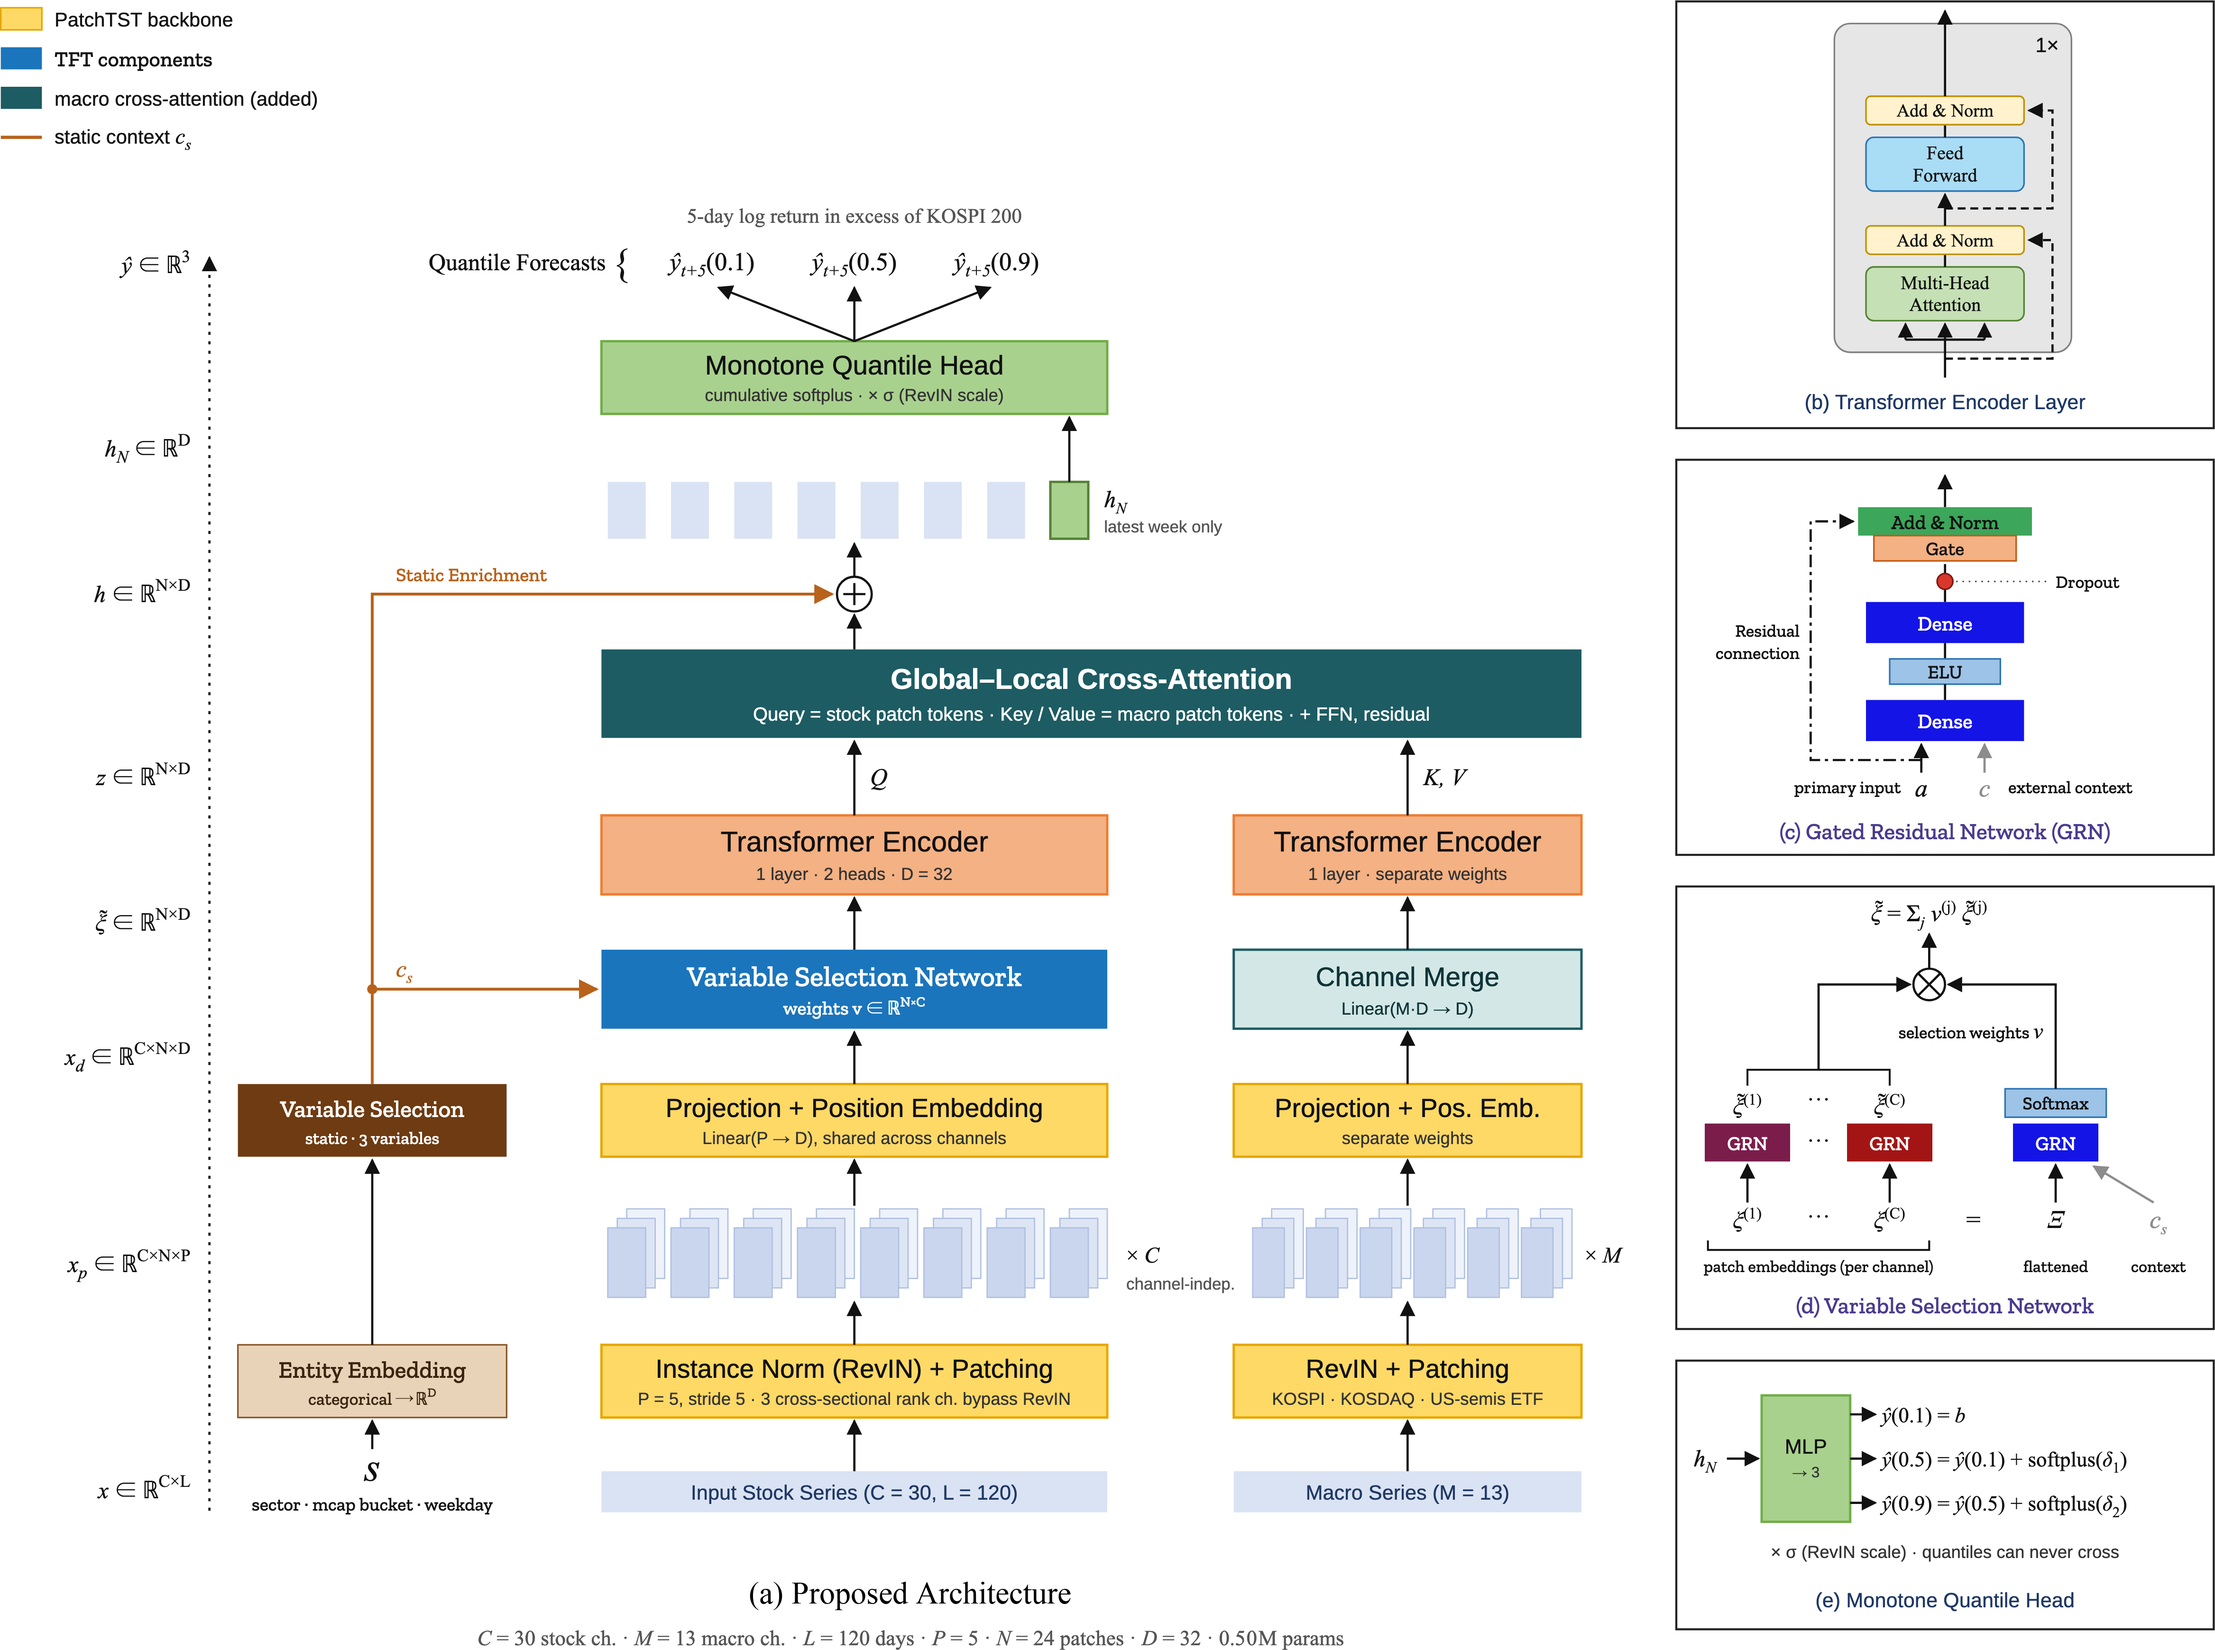
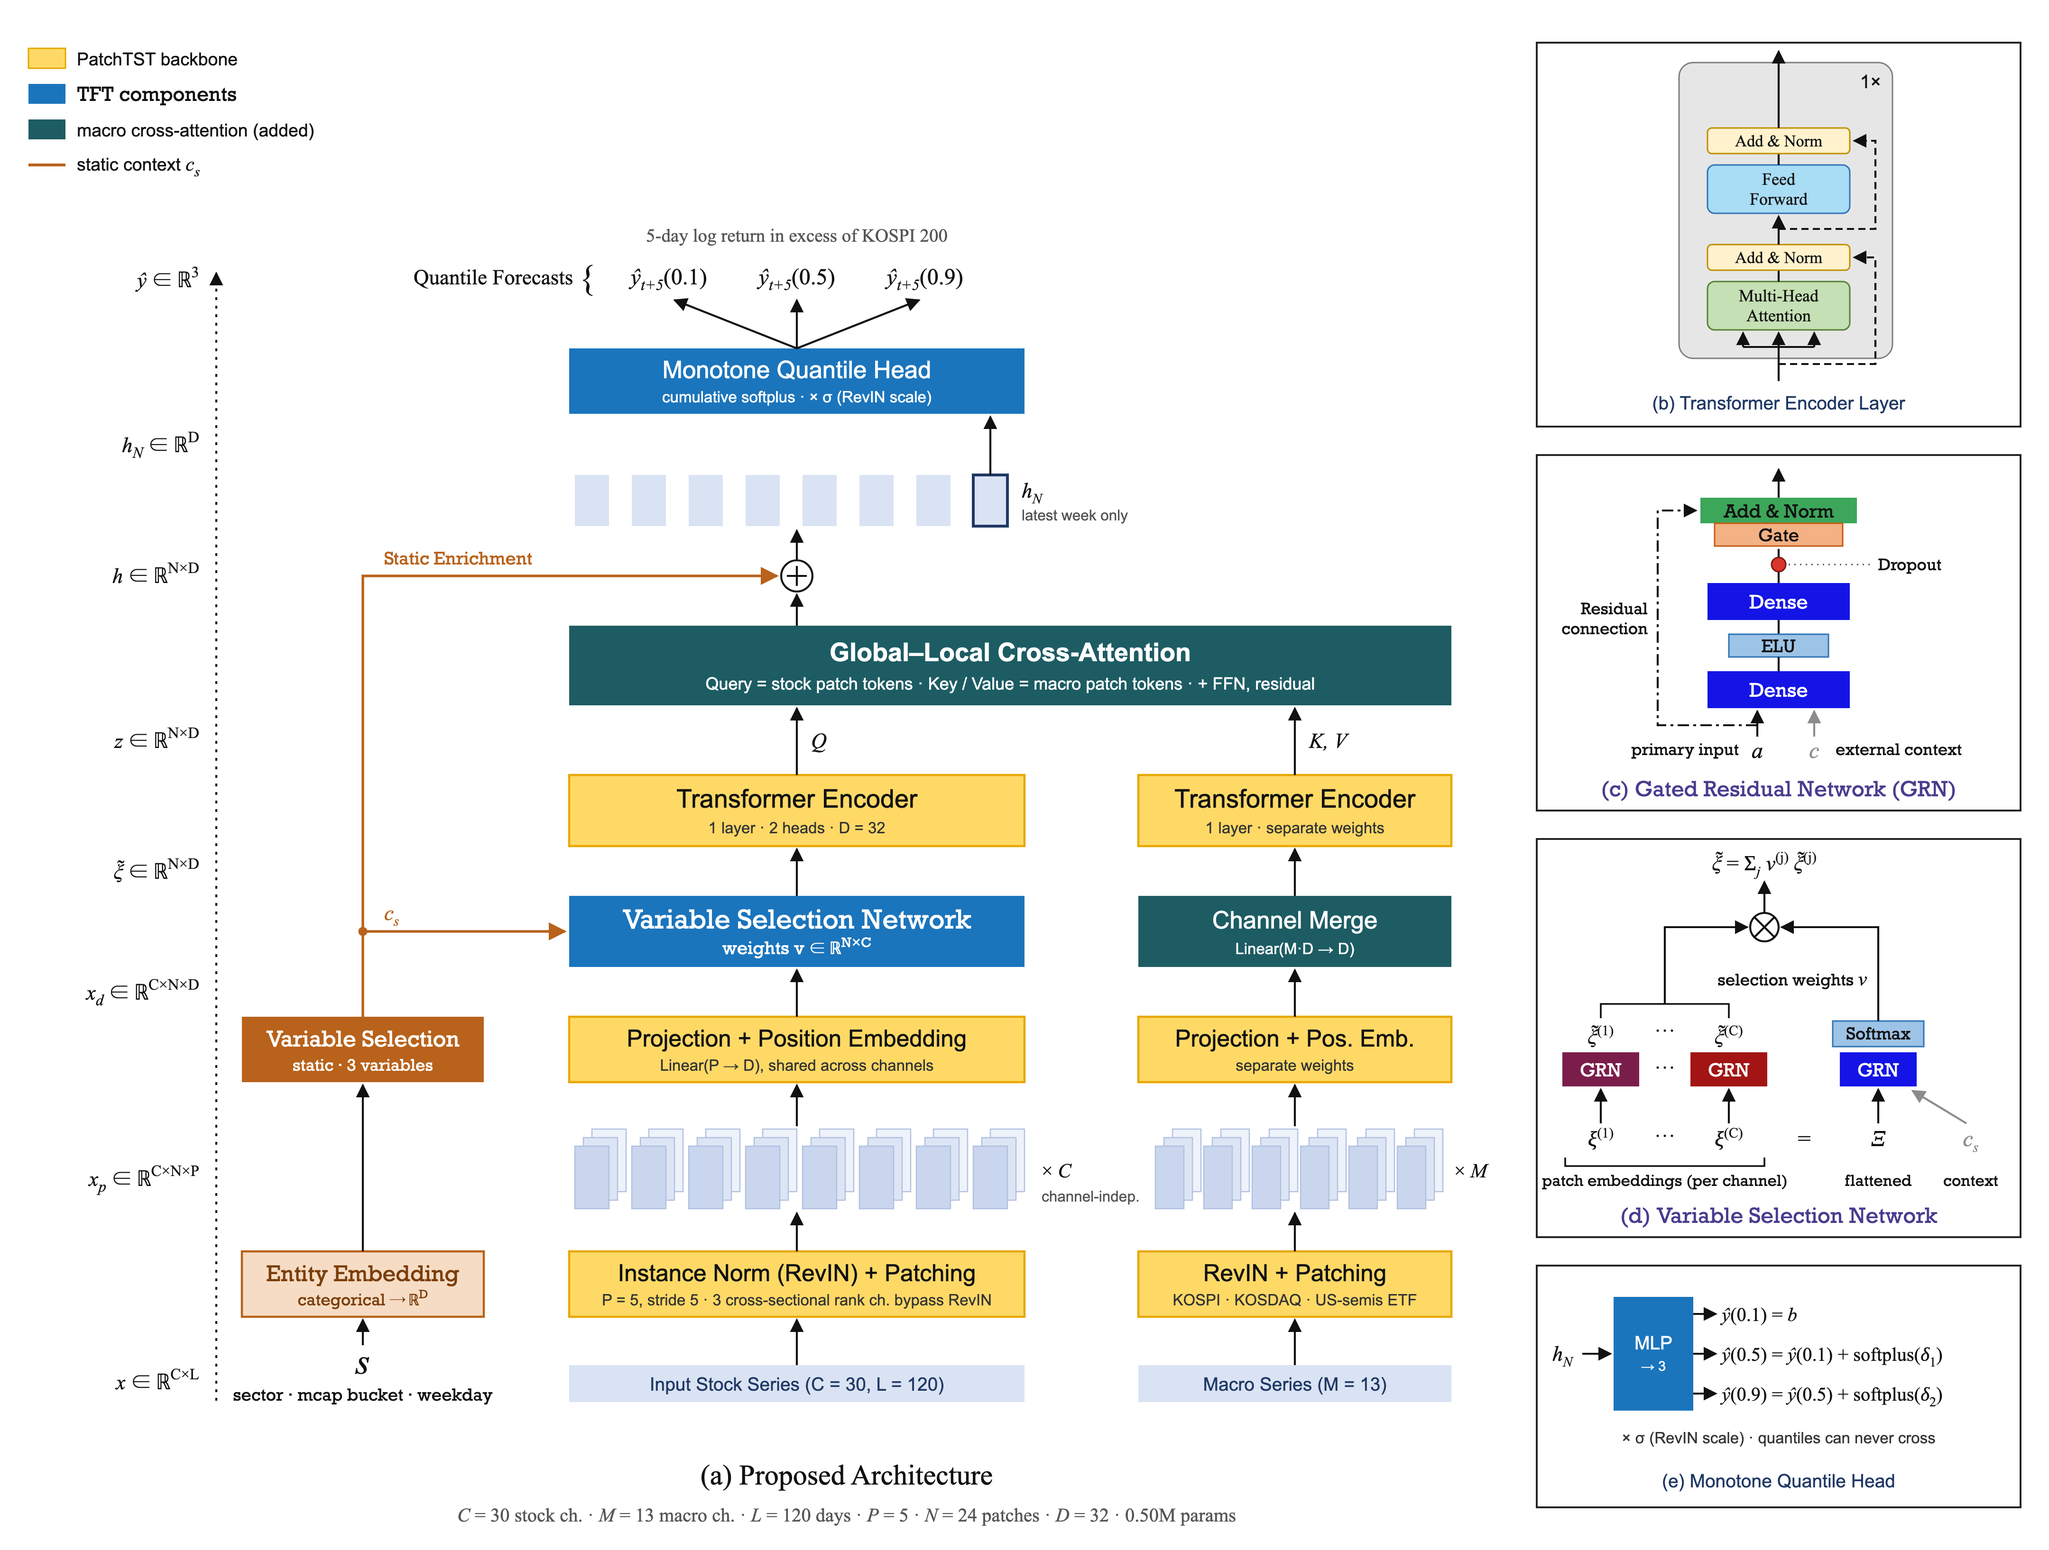
Fig. 1 상자 색을 범례 4색에 맞추고 Fig. 2 의 GBDT 라벨에 지시선을 단다 — 캡션이 설명한 색 규칙을 그림이 지키지 않았다
캡션은 노랑=PatchTST·파랑=TFT·청록=매크로·주황=정적 문맥이라고 적는데, 실제로는
인코더가 주황, 분위 헤드가 초록, Channel Merge 가 연청록, Entity Embedding 이
베이지였다. 범례를 6~7개로 늘리면 "어디까지가 기존 연구인가"를 보여주려던 색의
목적이 흐려지므로 상자 색을 범례에 맞췄다. h_N 은 부품이 아니라 데이터라 5번째
색을 주지 않고 중립색 + 테두리 강조로 뒀다.

원본은 아티팩트에 있다. 원본이 논문 PNG 보다 뒤처져 있어서(0.33M / 옛 제목 /
feature importance 문구) 그 수정부터 되살린 뒤 색을 고쳤고, 아티팩트도 함께 갱신했다.

Fig. 2 는 GBDT 라벨이 제안 모형 원 바로 아래에 붙어 그쪽 설명으로 읽혔다.

diff --git a/scripts/make_fig_cost_accuracy.py b/scripts/make_fig_cost_accuracy.py
@@ -105,9 +105,12 @@ def main() -> int:
     g_acc, g_lat, g_fit = load_gbdt()
     ax.scatter(g_lat, g_acc, s=28, marker="D", facecolor="white", edgecolor="black",
                linewidths=0.8, zorder=4)
+    # 지시선 — 라벨이 제안 모형 원 바로 아래에 놓여 그쪽 설명으로 읽히지 않게
     ax.annotate(f"Quantile GBDT (CPU)\n{g_fit:.1f} s full fit", (g_lat, g_acc),
-                textcoords="offset points", xytext=(2, -24), fontsize=6.0,
-                linespacing=1.25, ha="left")
+                textcoords="offset points", xytext=(-6, -30), fontsize=6.0,
+                linespacing=1.25, ha="left",
+                arrowprops=dict(arrowstyle="-", lw=0.5, color="0.45",
+                                shrinkA=1, shrinkB=4))
 
     # 더 좋은 방향을 한 번만 적는다
     ax.annotate("cheaper and more accurate", xy=(0.03, 0.94), xycoords="axes fraction",
